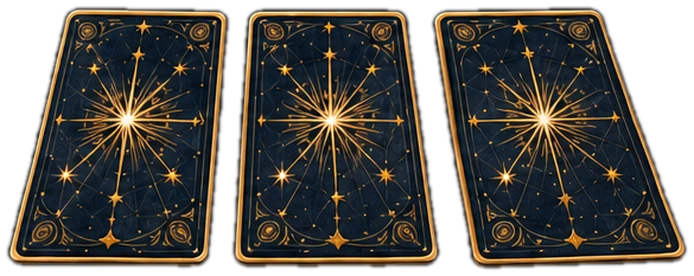
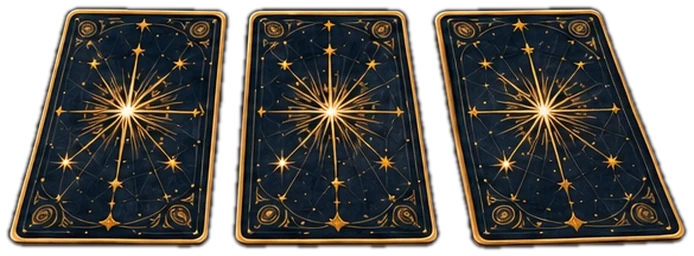
Oracle at its true proportions, with Ritual's header.
The Oracle painting carried a 12.7% vertical stretch inherited from its source; it is corrected (the moon measures round again) with more sky above and grass below, and the book, crystal ball and cards are corrected on their own measure. Oracle's header now uses Ritual's own arc of moons, title, line and words at Ritual's size on the screen.

diff --git a/public/app.js b/public/app.js
@@ -3572,9 +3572,9 @@ function skyHome(){
 // one painting, 1296 wide and 2192 tall, shown at the screen's height so the seeker is the same on every phone; the
 // book, the crystal ball and the cards are their own pieces and rise a little on shorter screens to stay above the menu
 const ORW=1296,ORH=2192,ORX=136;
-const ORL={omens:[194,560],dreams:[850,522],conn:[850,864],read:[226,1812],kas:[510,1932],tarot:[800,1824]};
-const ORHOT={omens:[50,230,290,390],dreams:[750,300,200,260],conn:[730,620,260,280],read:[50,1560,300,330],kas:[375,1590,270,380],tarot:[610,1620,380,240],me:[878,109,92,92]};
-const OROBJ={book:[68,1570,262,226],ball:[401,1611,218,294],cards:[615,1640,347,138]};
+const ORL={omens:[194,587],dreams:[850,553],conn:[850,857],read:[226,1698],kas:[510,1804],tarot:[800,1708]};
+const ORHOT={omens:[50,294,290,346],dreams:[750,356,200,231],conn:[730,640,260,248],read:[50,1474,300,293],kas:[375,1501,270,337],tarot:[610,1527,380,213],me:[878,109,92,92]};
+const OROBJ={book:[68,1474,262,209],ball:[401,1508,218,272],cards:[615,1539,347,128]};
 const ORLOW={read:1,kas:1,tarot:1};
 const ORT={omens:['data-go="discover" data-t="signs"','Signs and Synchronicities','Signs &amp;<br>Synchronicity'],dreams:['data-go="discover" data-t="dreams"','Dreams','Dreams'],conn:['data-go="discover" data-t="connections"','Connections','Connections'],read:['data-go="discover" data-t="readings"','Your Readings','Your<br>Readings'],tarot:['data-go="tarot" data-t="spreads"','Tarot','Tarot'],kas:['data-act="kasgo"','Kassandra','Kassandra'],me:['data-go="you"','My Cosmos']};
 const orGeo=()=>{const W=Math.min(innerWidth,520),H=innerHeight,os=Math.max(H/ORH,W/ORW),lk=Math.min(1.35,(W/1024)/os),top=(H-W*86/390)/os;
@@ -3585,7 +3585,7 @@ function oracleHome(){
   <div class="or-sc" data-k="${G.W}x${G.H}"><img class="or-bg" src="${SKY}or-wide.webp" alt="">
    ${Object.entries(OROBJ).map(([k,[x,y,w,h]])=>`<img class="or-ob" src="${SKY}or-${k}.webp" alt="" style="left:${x+ORX}px;top:${y-G.lift}px;width:${w}px;height:${h}px">`).join('')}
    <img class="or-ob or-me" src="${SKY}or-me.webp" alt="" style="left:${878+ORX}px;top:109px;width:92px;height:92px">
-   <div class="kt" style="left:${ORX+512-380}px;top:246px;width:760px"><h1>Oracle</h1><p>Guidance, insight and deeper<br>meaning for your journey.</p></div>
+   <div class="or-hd" style="left:${ORX}px"><img src="/art/nav2/hd-moons.webp" alt="" style="left:180px;top:14px;width:664px;height:198px"><div class="kt" style="left:132px;top:186px;width:760px"><h1>Oracle</h1><p>Guidance, insight and deeper<br>meaning for your journey.</p></div></div>
    ${Object.entries(ORL).map(([k,[x,y]])=>`<span class="or-l${k==='kas'?' or-lk':''}${k==='read'||k==='omens'?' or-l2':''}" style="left:${x+ORX}px;top:${y-up(k)}px">${ORT[k][2]}</span>`).join('')}
    ${Object.entries(ORHOT).map(([k,[x,y,w,h]])=>`<button class="rit-hot" ${ORT[k][0]} aria-label="${ORT[k][1]}" style="left:${x+ORX}px;top:${y-up(k)}px;width:${w}px;height:${h}px;border-radius:${k==='me'?'50%':'48px'}"></button>`).join('')}
   </div>

diff --git a/public/ritual.css b/public/ritual.css
@@ -293,3 +293,13 @@ body:has(.or0){overflow:hidden}
  -webkit-mask-image:linear-gradient(to bottom,#000 78%,transparent 93%);mask-image:linear-gradient(to bottom,#000 78%,transparent 93%);filter:drop-shadow(0 0 2px rgba(255,190,100,.45))}
 #app .kfr i{position:absolute;top:calc(1*var(--ku));left:calc(1*var(--ku));width:var(--fc);height:var(--fc);background:url(/art/nav2/frame-corner.webp) 0 0/100% 100% no-repeat}
 #app .kfr i+i{left:auto;right:calc(1*var(--ku));transform:scaleX(-1)}
+/* Oracle's header is Ritual's: the same arc of moons (lifted from Ritual's painting), title, line and words, at the same size on the screen */
+#app .or-hd{top:0;width:1024px;height:10px;transform:scale(var(--lk,1));transform-origin:50% 0;pointer-events:none}
+#app .or-hd>*{position:absolute}
+#app .or-hd img{display:block}
+#app .or0 .or-hd .kt h1{font-size:58px!important}
+#app .or0 .or-hd .kt h1::after{width:300px}
+#app .or0 .or-hd .kt p{font-size:30px!important}
+#app .kt h1{color:#F4E3BE;-webkit-text-stroke:.5px #F4E3BE;text-shadow:0 0 12px rgba(245,200,130,.35),0 1px 3px rgba(4,7,22,.9)}
+#app .kt p{color:#F6EBD2;-webkit-text-stroke:.2px #F6EBD2}
+#app .kt h1{transform:skewX(-5deg);-webkit-text-stroke:.7px #F4E3BE;letter-spacing:.015em}
